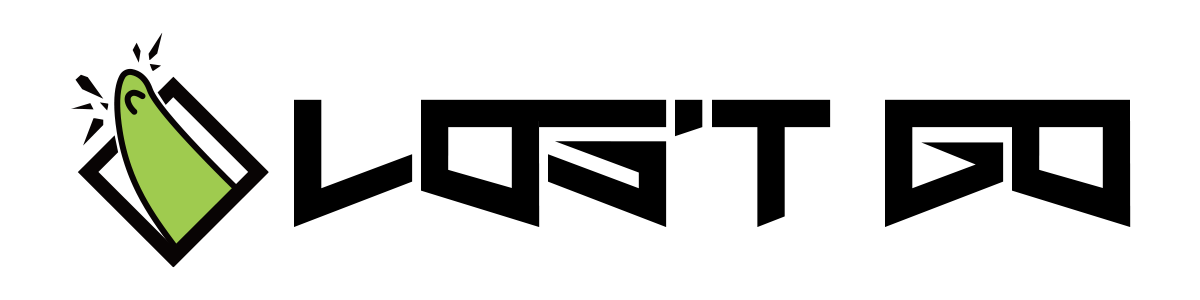
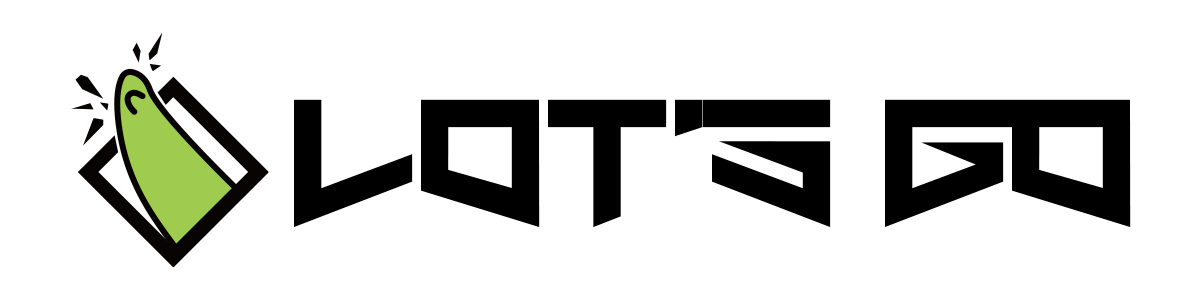
fixed: Fix typo in site name.

diff --git a/src/app/footer/FooterForm.tsx b/src/app/footer/FooterForm.tsx
@@ -20,7 +20,7 @@ export function LogoComponent() {
 export function SiteInformation() {
     return (
         <div className="mt-4">
-            <p className="fadedtext text-[9pt]">© 2025 LOS'TGO All rights reserved.</p>
+            <p className="fadedtext text-[9pt]">© 2025 LOT'S GO All rights reserved.</p>
             <p className="fadedtext text-[9pt]">This site is not affiliated with Smilegate RPG or Smilegate Stove.</p>
         </div>
     )
